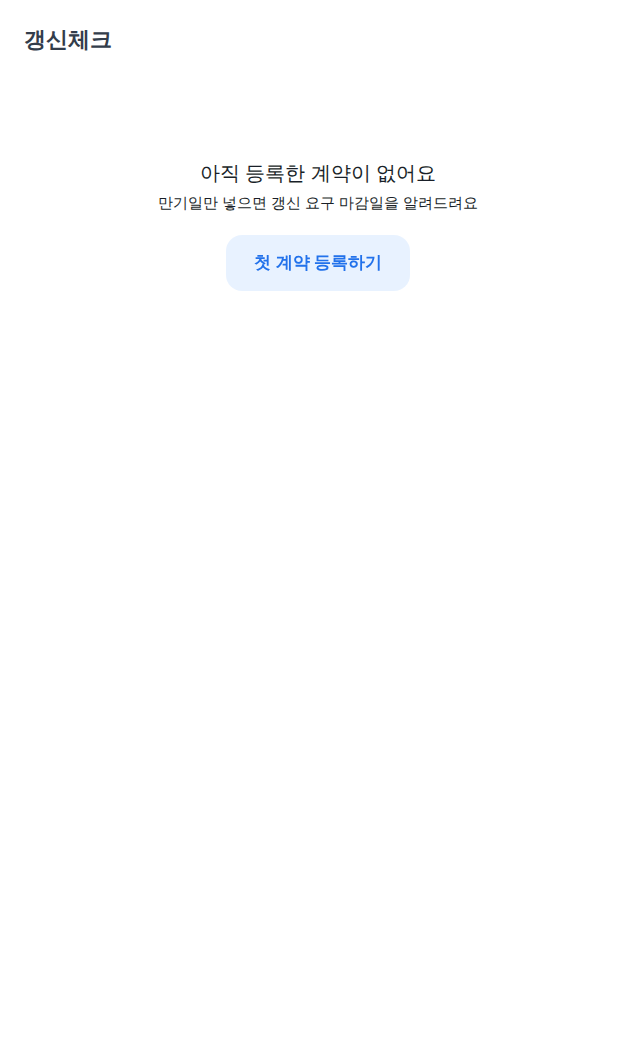
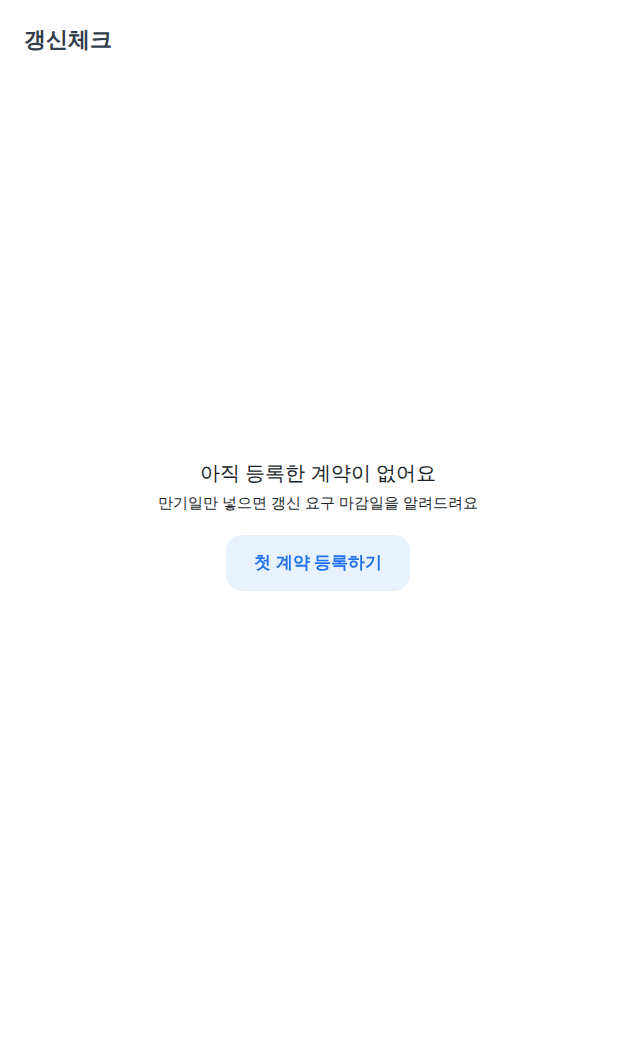
fix: visual UI improvements (round 2)

diff --git a/src/pages/ContractEdit.tsx b/src/pages/ContractEdit.tsx
@@ -35,10 +35,7 @@ export default function ContractEdit() {
   const contract = isNew ? undefined : existing.contract;
 
   const top = (
-    <Top
-      title={<Top.TitleParagraph>갱신체크</Top.TitleParagraph>}
-      subtitleBottom={<Top.SubtitleParagraph>{isNew ? '계약 등록' : '계약 수정'}</Top.SubtitleParagraph>}
-    />
+    <Top title={<Top.TitleParagraph>{isNew ? '계약 등록' : '계약 수정'}</Top.TitleParagraph>} />
   );
 
   if (status === 'not_found') {
@@ -67,6 +64,8 @@ export default function ContractEdit() {
 
   return (
     <ScreenScaffold top={top}>
+      {/* 스캐폴드 좌우 16px + TextField 내장 20px = 36px로 CTA(20px)와 어긋난다 → 스캐폴드 패딩을 상쇄 */}
+      <div style={{ margin: '0 -16px' }}>
       {status === 'loading' ? (
         <ContractForm key="loading" loading onSubmit={handleSubmit} />
       ) : (
@@ -85,8 +84,7 @@ export default function ContractEdit() {
           }
         />
       )}
-      {/* 하단 고정 저장 CTA에 마지막 행이 가려지지 않게 여백 */}
-      <Spacing size={96} />
+      </div>
     </ScreenScaffold>
   );
 }

diff --git a/src/pages/ContractEdit.test.tsx b/src/pages/ContractEdit.test.tsx
@@ -40,10 +40,9 @@ beforeEach(() => {
 });
 
 describe('ContractEdit', () => {
-  it('신규 모드: 부제 "계약 등록"과 전체폭 저장 CTA, 삭제 버튼 없음', async () => {
+  it('신규 모드: 제목 "계약 등록"과 전체폭 저장 CTA, 삭제 버튼 없음', async () => {
     renderAt('/contracts/new');
     expect(await screen.findByText('계약 등록')).toBeInTheDocument();
-    expect(screen.getByText('갱신체크')).toBeInTheDocument();
     expect(screen.getByRole('button', { name: '저장' })).toBeInTheDocument();
     expect(screen.queryByRole('button', { name: '계약 삭제' })).toBeNull();
   });

diff --git a/src/pages/Home.tsx b/src/pages/Home.tsx
@@ -144,7 +144,8 @@ export default function Home() {
             description="만기일만 넣으면 갱신 요구 마감일을 알려드려요"
             action={
               <Button
-                variant="weak"
+                variant="fill"
+                size="large"
                 onClick={() => {
                   fireHaptic('success');
                   addContract();
